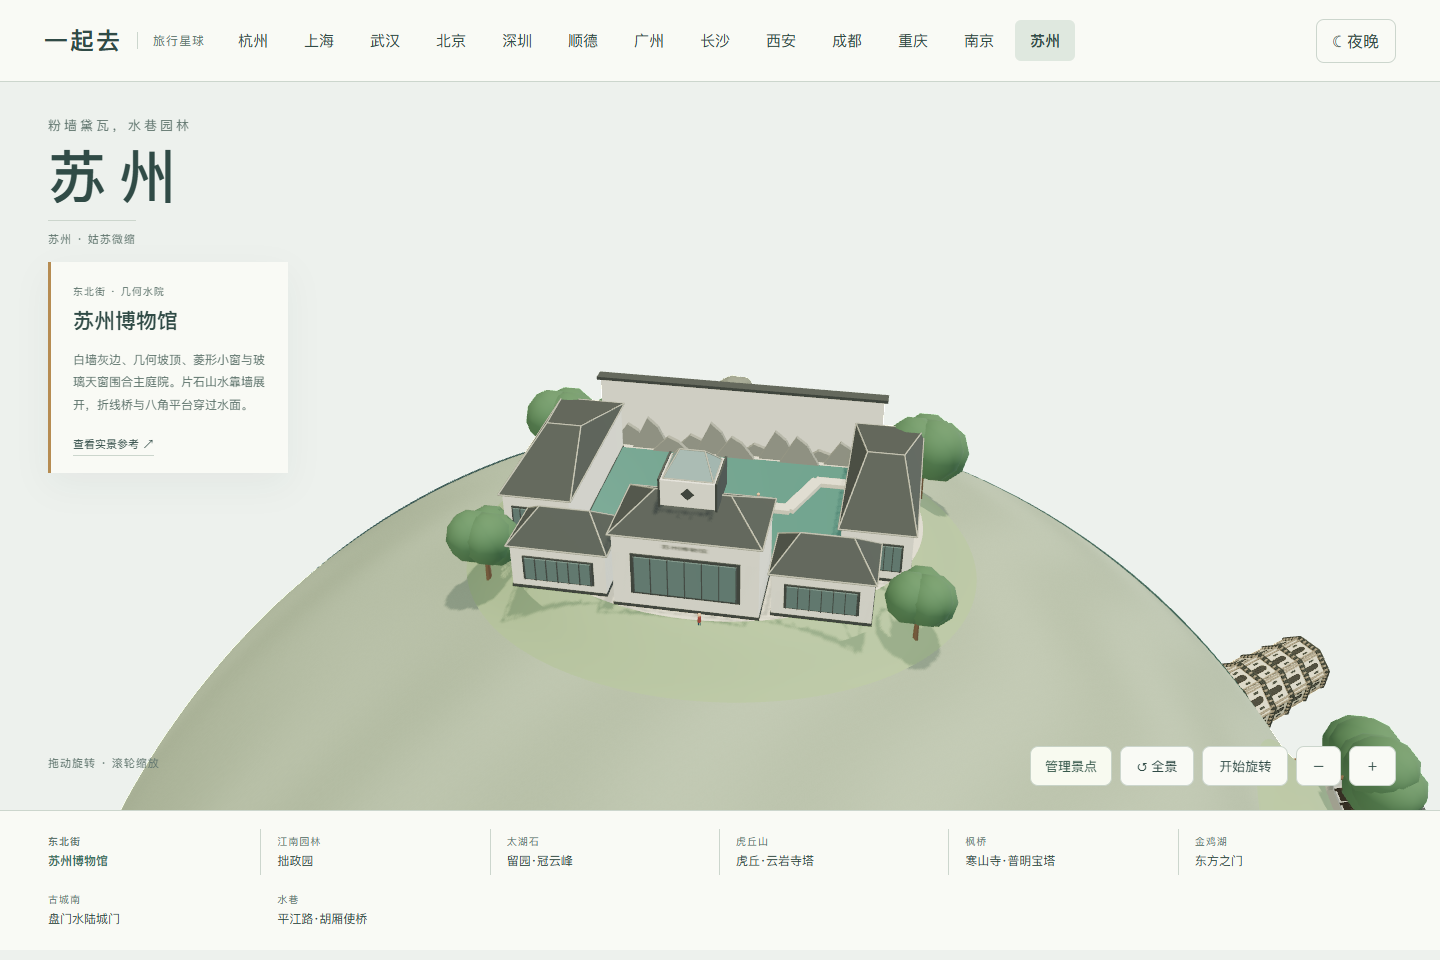
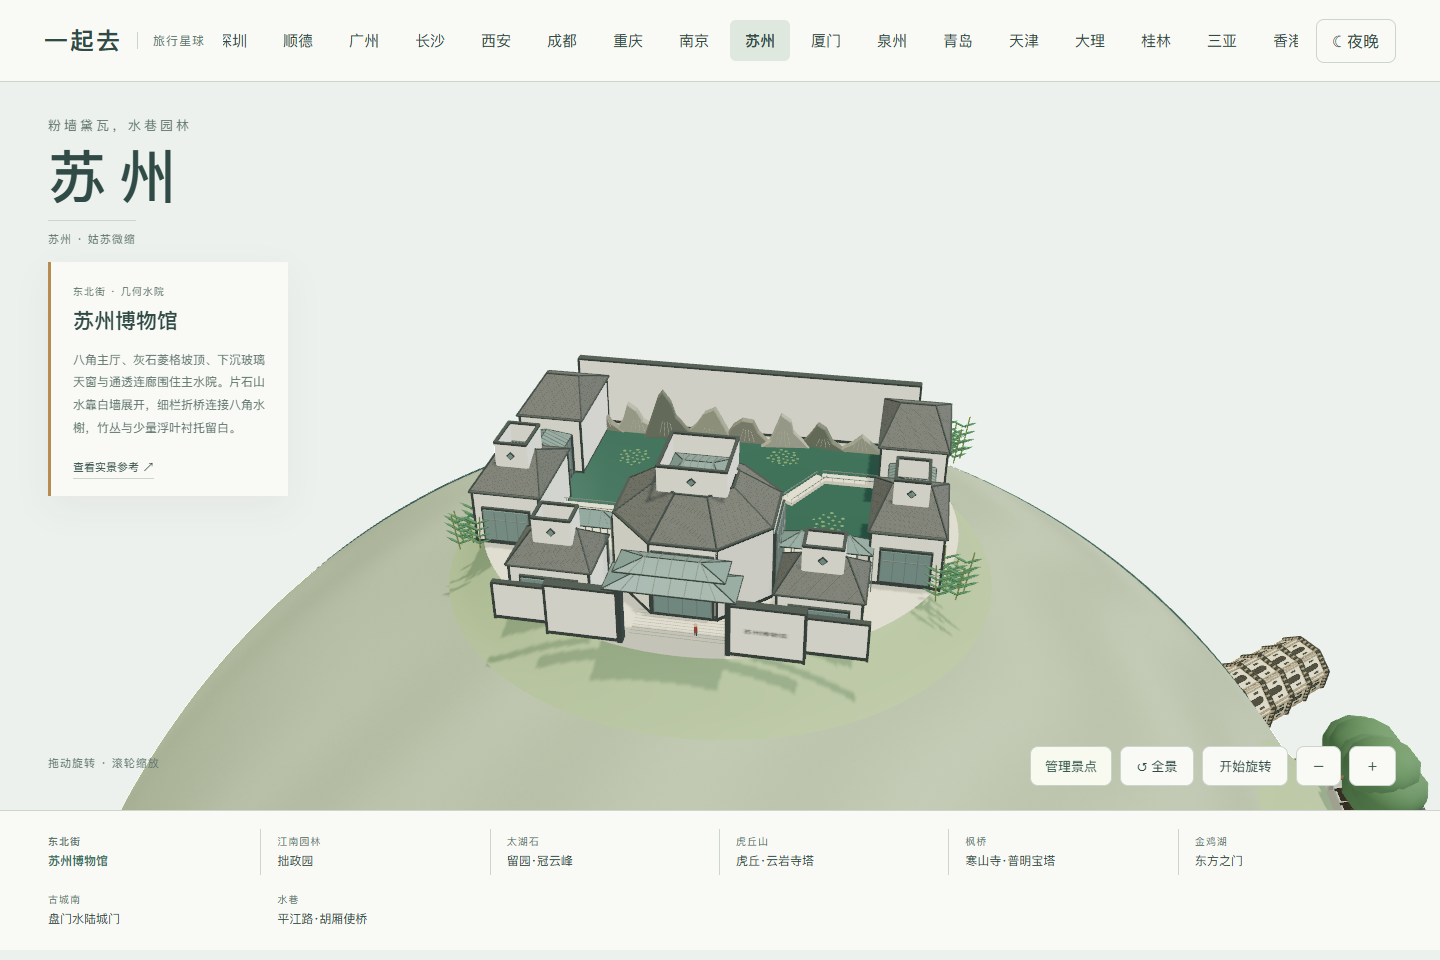
Refine Suzhou Museum courtyard, stone roofs and glazed connections

diff --git a/web/suzhou-museum.js b/web/suzhou-museum.js
@@ -1,0 +1,65 @@
+import * as THREE from 'three';
+import {palette,site,disc,bamboo,sign,finish,lit} from './suzhou-kit.js';
+
+function face(k,g,points,mat){const geo=new THREE.BufferGeometry();const pos=[];for(let i=1;i<points.length-1;i++)pos.push(...points[0],...points[i],...points[i+1]);geo.setAttribute('position',new THREE.Float32BufferAttribute(pos,3));geo.computeVertexNormals();mat.side=THREE.DoubleSide;return k.mesh(g,geo,mat);}
+function stoneRoof(k){const m=k.mat('#5e6260',.88,.03);m.onBeforeCompile=s=>{s.vertexShader='varying vec3 museumRoof;\n'+s.vertexShader.replace('#include <begin_vertex>','#include <begin_vertex>\nmuseumRoof=position;');s.fragmentShader='varying vec3 museumRoof;\n'+s.fragmentShader.replace('#include <color_fragment>',`#include <color_fragment>
+ vec2 diamond=vec2(museumRoof.x+museumRoof.z,museumRoof.x-museumRoof.z)*95.0;
+ vec2 gap=fract(diamond);float joint=step(.055,gap.x)*step(.055,gap.y);
+ float grain=fract(sin(dot(floor(diamond),vec2(12.98,78.23)))*43758.5);
+ diffuseColor.rgb*=mix(.78,.96+grain*.05,joint);`);};m.customProgramCacheKey=()=> 'suzhou-slate-diamond-v1';return m;}
+function strip(k,g,a,b,w,h,mat){const av=new THREE.Vector3(...a),bv=new THREE.Vector3(...b),d=bv.clone().sub(av),o=k.box(g,w,h,d.length(),mat,...av.add(bv).multiplyScalar(.5).toArray());o.quaternion.setFromUnitVectors(new THREE.Vector3(0,0,1),d.normalize());return o;}
+function hipped(k,g,p,x,z,w,d,y,h,glazed=false){const ridge=w*.25,pts=[[-w/2,0,-d/2],[w/2,0,-d/2],[w/2,0,d/2],[-w/2,0,d/2],[-ridge,h,0],[ridge,h,0]].map(v=>[v[0]+x,v[1]+y,v[2]+z]);
+ for(const ids of [[0,4,5,1],[1,5,2],[2,5,4,3],[3,4,0]])face(k,g,ids.map(i=>pts[i]),glazed?p.glass:p.roof);
+ for(const [a,b]of [[0,1],[1,2],[2,3],[3,0],[4,5],[0,4],[1,5],[2,5],[3,4]])strip(k,g,pts[a],pts[b],glazed?.002:.006,.003,p.edge);
+ if(glazed)for(const side of [-1,1])for(let i=1;i<8;i++){const xx=x+(i/8-.5)*w*.95;strip(k,g,[xx,y+.001,z+side*d/2],[THREE.MathUtils.clamp(xx,x-ridge,x+ridge),y+h+.001,z],.0018,.002,p.frame);}
+}
+function aperture(k,g,p,{x=0,z=0,y=.035,w=.12,h=.10,rotation=0}={}){const group=new THREE.Group();group.position.set(x,y,z);group.rotation.y=rotation;g.add(group);k.box(group,w+.012,h+.012,.007,p.edge,0,h/2,0);k.box(group,w,h,.008,p.glass,0,h/2,.001);for(let i=0;i<=4;i++)k.box(group,.0018,h,.009,p.frame,(i/4-.5)*w,h/2,.003);k.box(group,w,.002,.009,p.frame,0,h*.70,.003);}
+function diamond(k,g,p,x,y,z,size=.018,rotation=0){const group=new THREE.Group();group.position.set(x,y,z);group.rotation.y=rotation;g.add(group);const trim=k.box(group,size,size,.006,p.edge);trim.rotation.z=Math.PI/4;const glass=k.box(group,size*.68,size*.68,.007,p.glass,0,0,.001);glass.rotation.z=Math.PI/4;}
+function wall(k,g,p,w,h,d,x,y,z){k.box(g,w,h,d,p.wall,x,y+h/2,z);k.box(g,w+.002,.009,d+.002,p.edge,x,y+.005,z);k.box(g,w+.004,.006,d+.004,p.edge,x,y+h,z);for(const sx of [-1,1])for(const sz of [-1,1])k.box(g,.006,h,.006,p.edge,x+sx*w/2,y+h/2,z+sz*d/2);}
+function lantern(k,g,p,x,z,w,d,y,h=.075){
+ const t=.006;k.box(g,w,h,t,p.wall,x,y+h/2,z-d/2);k.box(g,w,h,t,p.wall,x,y+h/2,z+d/2);for(const side of [-1,1])k.box(g,t,h,d,p.wall,x+side*w/2,y+h/2,z);
+ for(const side of [-1,1]){k.box(g,w+.004,.006,.008,p.edge,x,y+h,z+side*d/2);k.box(g,.008,.006,d+.004,p.edge,x+side*w/2,y+h,z);diamond(k,g,p,x,y+h*.51,z+side*(d/2+.004),.016,side===1?0:Math.PI);}
+ hipped(k,g,p,x,z,w*.90,d*.90,y+.014,.025,true);
+}
+function pavilion(k,g,p,{x,z,w,d,h=.16,lanternTop=false}){
+ wall(k,g,p,w,h,d,x,.027,z);hipped(k,g,p,x,z,w+.012,d+.012,.027+h,.065);
+ for(const side of [-1,1])aperture(k,g,p,{x,z:z+side*(d/2+.005),y:.046,w:w*.67,h:h*.57,rotation:side<0?Math.PI:0});
+ if(lanternTop)lantern(k,g,p,x,z,w*.46,d*.44,.027+h+.040,.065);
+}
+function octagon(k,g,p,x,z,r,y,h){const vertices=Array.from({length:8},(_,i)=>{const a=Math.PI/8+i*Math.PI/4;return [x+Math.sin(a)*r,z+Math.cos(a)*r];});
+ for(let i=0;i<8;i++){const [ax,az]=vertices[i],[bx,bz]=vertices[(i+1)%8],mid=[(ax+bx)/2,(az+bz)/2],len=Math.hypot(bx-ax,bz-az),angle=Math.atan2(bx-ax,bz-az);const panel=k.box(g,.006,i%2?.026:h,len,p.wall,mid[0],i%2?y+h-.013:y+h/2,mid[1]);panel.rotation.y=angle;k.box(g,.006,h,.006,p.edge,ax,y+h/2,az);strip(k,g,[ax,y+h,az],[bx,y+h,bz],.007,.005,p.edge);strip(k,g,[ax,y+.006,az],[bx,y+.006,bz],.008,.010,p.edge);
+  if(i%2===1)aperture(k,g,p,{x:mid[0]+(mid[0]-x)*.025,z:mid[1]+(mid[1]-z)*.025,y:y+.014,w:len*.86,h:h*.82,rotation:Math.atan2(mid[0]-x,mid[1]-z)});
+ }
+ const outer=vertices.map(a=>[a[0],y+h,a[1]]),inner=vertices.map(a=>[x+(a[0]-x)*.48,y+h+.075,z+(a[1]-z)*.48]);
+ for(let i=0;i<8;i++){const j=(i+1)%8;face(k,g,[outer[i],inner[i],inner[j],outer[j]],p.roof);strip(k,g,outer[i],inner[i],.005,.003,p.edge);strip(k,g,inner[i],inner[j],.005,.003,p.edge);}
+ lantern(k,g,p,x,z,r*.78,r*.78,y+h+.072,.065);
+}
+function glazedLink(k,g,p,x,z,w,d,y=.145){hipped(k,g,p,x,z,w,d,y,.029,true);for(const side of [-1,1])for(let i=0;i<=6;i++)k.box(g,.003,y-.027,.003,p.frame,x+(i/6-.5)*w,(y+.027)/2,z+side*d/2);}
+function bridge(k,g,p,points,w=.036){for(let i=1;i<points.length;i++){const a=points[i-1],b=points[i];strip(k,g,[a[0],.043,a[1]],[b[0],.043,b[1]],w,.010,p.pale);const dx=b[0]-a[0],dz=b[1]-a[1],len=Math.hypot(dx,dz),nx=dz/len,nz=-dx/len;for(const side of [-1,1]){const off=side*w*.47;strip(k,g,[a[0]+nx*off,.058,a[1]+nz*off],[b[0]+nx*off,.058,b[1]+nz*off],.0018,.002,p.frame);const n=Math.max(2,Math.ceil(len/.035));for(let j=0;j<=n;j++)k.box(g,.0014,.014,.0014,p.frame,a[0]+dx*j/n+nx*off,.051,a[1]+dz*j/n+nz*off);}}
+}
+function mountain(k,g,p){
+ const shapes=[[-.41,.028,[[-.06,0],[-.049,.023],[-.02,.046],[.005,.040],[.019,.021],[.058,0]]],[-.31,.031,[[-.065,0],[-.041,.041],[-.028,.088],[-.005,.071],[.013,.039],[.056,.015],[.063,0]]],[-.22,.045,[[-.065,0],[-.052,.039],[-.023,.130],[-.012,.145],[.009,.113],[.022,.069],[.070,.008],[.070,0]]],[-.10,.027,[[-.070,0],[-.034,.039],[-.010,.078],[.019,.095],[.038,.063],[.074,0]]],[.015,.032,[[-.070,0],[-.040,.049],[-.015,.069],[.014,.066],[.029,.035],[.064,0]]],[.12,.040,[[-.060,0],[-.036,.019],[-.007,.100],[.017,.082],[.025,.048],[.070,0]]],[.235,.026,[[-.064,0],[-.033,.043],[-.017,.071],[.004,.060],[.025,.021],[.066,0]]],[.34,.032,[[-.060,0],[-.018,.027],[.004,.049],[.029,.028],[.063,0]]]];
+ const colors=['#797c72','#94978b','#696f65','#8b8f82'];for(let i=0;i<shapes.length;i++){const [x,zShift,points]=shapes[i],shape=new THREE.Shape();points.forEach(([a,b],n)=>n?shape.lineTo(a,b):shape.moveTo(a,b));shape.closePath();const mat=k.mat(colors[i%colors.length],.98);mat.userData.night={color:new THREE.Color('#c9c7b8'),intensity:.035};const mesh=k.mesh(g,new THREE.ExtrudeGeometry(shape,{depth:.016,bevelEnabled:true,bevelThickness:.003,bevelSize:.003,bevelSegments:1}),mat,x,.034,-.403+zShift);mesh.rotation.y=(i%3-1)*.13;for(let j=0;j<4;j++){const a=(j-1.5)*.014;k.beam(g,[x+a,.041,-.382+zShift],[x+a*.5,.067+.011*(i%3),-.380+zShift],.0006,p.rockVein);}}
+}
+export function museum(k){
+ const g=new THREE.Group(),p=palette(k),height=site(k,g,.72,.70);p.wall.color.set('#e2e2d9');p.edge=k.mat('#404a49',.85,.04);p.frame=k.mat('#697675',.68,.08);p.roof=stoneRoof(k);p.glass=lit(k,'#758d8b',.23);p.glass.roughness=.31;p.glass.metalness=.16;p.rockVein=k.mat('#a7aaa0',.97);p.water.color.set('#3e6659');p.water.roughness=.25;p.water.metalness=.24;p.water.userData.water=true;
+ for(const m of [p.wall,p.edge,p.roof])m.userData.museumOpaque=true;disc(k,g,.62,.59,.021,p.pale);
+ k.box(g,.86,.008,.48,p.water,0,.027,-.147);for(const x of [-.435,.435])k.box(g,.011,.023,.50,p.edge,x,.030,-.147);
+ wall(k,g,p,.99,.203,.020,0,.028,-.421);mountain(k,g,p);
+ bridge(k,g,p,[[-.43,.08],[-.25,.08],[-.17,-.044],[.17,-.044],[.25,-.18],[.43,-.18]]);
+ bridge(k,g,p,[[-.17,-.044],[-.17,.045]]);k.cyl(g,.065,.065,.012,p.pale,-.17,.043,.073,8);
+ // Small groups of lily pads retain the wide open reflecting pool.
+ const lily=k.mat('#67845d',.95);for(const [cx,cz,n]of [[-.29,-.22,23],[.13,-.29,26],[.29,.015,19]])for(let i=0;i<n;i++){const a=i*2.399,r=.046*Math.sqrt((i+.5)/n),o=k.mesh(g,new THREE.CircleGeometry(.0037+(i%3)*.0007,7),lily,cx+Math.sin(a)*r,.032,cz+Math.cos(a)*r);o.rotation.x=-Math.PI/2;}
+ // Two galleries and their glazed links are parts of the museum, not filler houses.
+ for(const side of [-1,1]){pavilion(k,g,p,{x:side*.49,z:-.245,w:.17,d:.27,h:.17});pavilion(k,g,p,{x:side*.49,z:.135,w:.17,d:.24,h:.15,lanternTop:true});const link=new THREE.Group();link.position.set(side*.49,0,-.045);link.rotation.y=Math.PI/2;g.add(link);glazedLink(k,link,p,0,0,.13,.12,.15);}
+ octagon(k,g,p,0,.275,.202,.028,.196);
+ for(const side of [-1,1]){pavilion(k,g,p,{x:side*.31,z:.405,w:.19,d:.15,h:.112,lanternTop:true});glazedLink(k,g,p,side*.30,.255,.23,.065,.13);wall(k,g,p,.23,.10,.010,side*.31,.027,.535);}
+ // Open entrance gate and glazed canopy preserve the view toward the central hall.
+ for(const side of [-1,1])wall(k,g,p,.17,.135,.018,side*.205,.027,.564);
+ for(const x of [-.122,.122])k.box(g,.013,.166,.025,p.edge,x,.110,.564);k.box(g,.256,.013,.026,p.edge,0,.192,.564);hipped(k,g,p,0,.564,.292,.10,.201,.026,true);hipped(k,g,p,0,.564,.244,.082,.243,.018,true);
+ sign(k,g,'苏州博物馆',.105,.022,.205,.10,.576,{background:'#e2e2d9',color:'#303d3b'});
+ const court=new THREE.Group();g.add(court);court.position.z=.493;k.box(court,.22,.003,.11,p.pale,0,.025,0);for(let i=-4;i<=4;i++)k.box(court,.22,.001,.0008,p.stone,0,.027,i*.011);
+ for(const side of [-1,1]){bamboo(k,g,side*.58,-.39,.16);bamboo(k,g,side*.59,.25,.14);}
+ finish(k,g,{lamps:[[-.37,.028,.47],[.37,.028,.47]],visitors:[[-.19,.050,.075],[.03,.050,-.044],[.04,.027,.52]]});
+ for(const x of [-.32,.32]){const light=new THREE.SpotLight('#e8e4d1',0,1.0,.7,.8,2);light.position.set(x,.14,-.04);light.target.position.set(x,.14,-.40);light.userData.nightIntensity=.075;g.add(light,light.target);}return g;
+}

diff --git a/web/suzhou-modern.js b/web/suzhou-modern.js
@@ -1,32 +1,7 @@
 import * as THREE from 'three';
 import {palette,site,disc,grove,path,sign,finish,lit} from './suzhou-kit.js';
 
-function straightRoof(k,g,p,x,y,z,w,d,h){
- const geo=new THREE.BufferGeometry(),v=[[-w/2,0,-d/2],[w/2,0,-d/2],[w/2,0,d/2],[-w/2,0,d/2],[-w*.25,h,0],[w*.25,h,0]],indices=[0,4,5,0,5,1,1,5,2,2,5,4,2,4,3,3,4,0];geo.setAttribute('position',new THREE.Float32BufferAttribute(v.flat(),3));geo.setIndex(indices);const flat=geo.toNonIndexed();geo.dispose();flat.computeVertexNormals();k.mesh(g,flat,p.tile,x,y,z);
- for(const [a,b]of [[0,1],[1,2],[2,3],[3,0],[4,5],[0,4],[1,5],[2,5],[3,4]])k.beam(g,v[a].map((q,i)=>q+[x,y,z][i]),v[b].map((q,i)=>q+[x,y,z][i]),.002,p.stone);
-}
-function gallery(k,g,p,{x,z,w,d,h=.14}){
- k.box(g,w,h,d,p.wall,x,.026+h/2,z);k.box(g,w+.004,.008,d+.004,p.tile,x,.030,z);straightRoof(k,g,p,x,.026+h,z,w+.015,d+.018,.065);
- const pane=lit(k,'#657b78',.36);
- for(const s of [-1,1]){k.box(g,w*.75,h*.55,.005,p.tile,x,.032+h*.45,z+s*(d/2+.001));k.box(g,w*.69,h*.48,.005,pane,x,.032+h*.45,z+s*(d/2+.004));for(let i=0;i<7;i++)k.box(g,.002,h*.50,.007,p.tile,x+(i/6-.5)*w*.70,.032+h*.45,z+s*(d/2+.007));}
-}
-export function museum(k){
- const g=new THREE.Group(),p=palette(k),height=site(k,g,.68,.61);disc(k,g,.53,.46,.022,p.pale);
- k.box(g,.68,.008,.46,p.water,0,.027,-.04);
- k.box(g,.80,.20,.025,p.wall,0,.125,-.32);k.box(g,.82,.009,.035,p.tile,0,.229,-.32);
- const rock=k.mat('#8e9188',.98);for(let i=0;i<11;i++){const shape=new THREE.Shape(),x=(i-5)*.061,h=.035+.065*(.5+.5*Math.sin(i*1.9));shape.moveTo(-.06,0);shape.lineTo(-.015,h);shape.lineTo(.015,h*.72);shape.lineTo(.05,0);shape.closePath();k.mesh(g,new THREE.ExtrudeGeometry(shape,{depth:.014,bevelEnabled:false}),rock,x,.035,-.292+(i%3)*.01);}
- path(k,g,p,[[-.38,.13],[-.18,.13],[-.12,-.01],[.18,-.01],[.24,-.16],[.38,-.16]],.033,.043);
- k.cyl(g,.055,.055,.012,p.pale,-.14,.043,.18,8);
- gallery(k,g,p,{x:-.42,z:-.02,w:.17,d:.51,h:.14});gallery(k,g,p,{x:.42,z:-.02,w:.17,d:.51,h:.14});
- gallery(k,g,p,{x:0,z:.34,w:.34,d:.20,h:.20});gallery(k,g,p,{x:-.31,z:.34,w:.23,d:.15,h:.12});gallery(k,g,p,{x:.31,z:.34,w:.23,d:.15,h:.12});
- // Geometric lantern above the central hall, with a recessed pyramidal skylight.
- k.box(g,.13,.065,.12,p.wall,0,.321,.34);const glass=lit(k,'#7e9694',.30);straightRoof(k,g,{...p,tile:glass},0,.354,.34,.115,.105,.048);
- for(const x of [-.065,.065])k.box(g,.005,.073,.125,p.tile,x,.321,.34);
- for(const side of [-1,1]){const o=k.box(g,.022,.022,.002,p.tile,0,.323,.34+side*.061);o.rotation.z=Math.PI/4;}
- sign(k,g,'苏州博物馆',.116,.020,0,.204,.442,{background:'#dfded2',color:'#414b46'});
- grove(k,g,height,[[-.52,-.32,.18],[.52,-.31,.19],[-.55,.27,.15],[.53,.31,.14]]);
- return finish(k,g,{lamps:[[-.25,.03,.22],[.25,.03,.22]],visitors:[[-.18,.051,.13],[.10,.051,-.01],[.04,.025,.48]]});
-}
+export {museum} from './suzhou-museum.js';
 
 export function orient(k){
  const g=new THREE.Group(),p=palette(k);site(k,g,.58,.49);disc(k,g,.39,.32,.021,p.pale);

diff --git a/web/suzhou-landmarks.js b/web/suzhou-landmarks.js
@@ -2,7 +2,7 @@ import {museum,orient} from './suzhou-modern.js';
 import {humble,lingering} from './suzhou-gardens.js';
 import {tiger,hanshan,panmen,pingjiang} from './suzhou-heritage.js';
 export const LANDMARKS=[
- {id:'museum',name:'苏州博物馆',area:'东北街 · 几何水院',x:-1.08,z:.94,height:.48,distance:2.95,view:[.33,1.05,1.8],description:'白墙灰边、几何坡顶、菱形小窗与玻璃天窗围合主庭院。片石山水靠墙展开，折线桥与八角平台穿过水面。',source:'https://pei-architects.com/projects/suzhou-museum/'},
+ {id:'museum',name:'苏州博物馆',area:'东北街 · 几何水院',x:-1.08,z:.94,height:.48,distance:2.95,view:[.33,1.05,1.8],description:'八角主厅、灰石菱格坡顶、下沉玻璃天窗与通透连廊围住主水院。片石山水靠白墙展开，细栏折桥连接八角平台，竹丛与少量浮叶衬托留白。',source:'https://pei-architects.com/projects/suzhou-museum/'},
  {id:'humble',name:'拙政园',area:'江南园林 · 荷风四面',x:1.08,z:.94,height:.44,distance:2.85,view:[.35,.95,1.8],description:'以荷塘、六角荷风四面亭和远香堂为核心，补入曲桥、廊屋、竹丛与临水树冠。保留园林的水面和留白，不把庭园铺成密集房屋。',source:'https://lhsr.sh.gov.cn/jnylwh/20230731/97e84acfec034f0a930b23fdadbe390f.html'},
  {id:'lingering',name:'留园·冠云峰',area:'太湖石 · 一峰三叠',x:-1.08,z:-.94,height:.50,distance:2.75,view:[.25,.80,1.8],description:'冠云峰、两侧配石、浣云沼、冠云楼与围廊构成层次。太湖石保留穿透孔洞，月洞门和木格窗围住安静的庭院。',source:'https://ylj.suzhou.gov.cn/szsylj/sjyc/201905/b7c0f2058c75498c9ecbacf234e25b08.shtml'},
  {id:'tiger',name:'虎丘·云岩寺塔',area:'虎丘山 · 七层砖塔',x:1.08,z:-.94,height:1.15,distance:2.9,view:[.4,.74,1.8],description:'七层八角砖塔略向一侧倾斜。灰褐砖、浅色壁面、券窗、密叠砖檐与收束塔顶，区别于宽大木檐的寺院宝塔。',source:'https://www.trip.com/travel-guide/attraction/suzhou/tiger-hill-scenic-area-76159/'},

diff --git a/tools/destination-check.py b/tools/destination-check.py
@@ -24,6 +24,7 @@ configs['sanya']={'count': 8, 'focus': 'phoenix', 'first': 'nanshan', 'night': [
 configs['hongkong']={'count': 10, 'focus': 'boc', 'first': 'boc', 'night': ['ifc', 'hsbc', 'cec', 'peak', 'icc', 'clock', 'mplus', 'chilin', 'buddha', 'boc'], 'routes': ['', 'shanghai-trip.html', 'wuhan-trip.html', 'shanghai.html', 'wuhan.html', 'beijing.html', 'shenzhen.html', 'shunde.html', 'guangzhou.html', 'changsha.html', 'xian.html', 'chengdu.html', 'chongqing.html', 'nanjing.html', 'suzhou.html', 'xiamen.html', 'quanzhou.html', 'qingdao.html', 'tianjin.html', 'dali.html', 'guilin.html', 'sanya.html']}
 configs['macau']={'count': 10, 'focus': 'paul', 'first': 'paul', 'night': ['paul', 'senado', 'dominic', 'ama', 'guia', 'tower', 'lisboa', 'taipa', 'science', 'morpheus'], 'routes': ['beijing.html', 'changsha.html', 'chengdu.html', 'chongqing.html', 'dali.html', 'guangzhou.html', 'guilin.html', 'hongkong.html', '', 'nanjing.html', 'qingdao.html', 'quanzhou.html', 'sanya.html', 'shanghai-trip.html', 'shanghai.html', 'shenzhen.html', 'shunde.html', 'suzhou.html', 'tianjin.html', 'wuhan-trip.html', 'wuhan.html', 'xiamen.html', 'xian.html']}
 assert city in configs, 'Unknown city viewer'
+configs['suzhou']['motion']='orient'
 config=configs[city];count=config['count'];focus=config['focus'];first=config['first']
 out=root/'test-results'/('destination-'+city);out.mkdir(parents=True,exist_ok=True)
 report={'startedAt':datetime.datetime.now().astimezone().isoformat(),'city':city,'errors':[],'writes':[],'checks':[],'inspected':False}
@@ -51,6 +52,7 @@ try:
         page.locator('#night').click();expect(canvas).to_have_attribute('data-night','true');page.locator('#overview').click();shot('desktop-night')
         for id in config['night']:
             page.locator('[data-landmark='+id+']').click();shot('night-'+id)
+        page.locator('[data-landmark='+config.get('motion',config['night'][-1])+']').click()
         page.emulate_media(reduced_motion='no-preference');page.wait_for_timeout(800);before=canvas.screenshot();page.wait_for_timeout(1800);assert before!=canvas.screenshot();page.emulate_media(reduced_motion='reduce')
         page.set_viewport_size({'width':390,'height':844});page.locator('[data-landmark='+focus+']').click();shot('390-'+focus+'-night')
         page.locator('#manage-landmarks').click();expect(page.locator('#landmark-manager')).to_be_visible();assert page.locator('#landmark-manager').evaluate('(e)=>e.getBoundingClientRect().bottom<=innerHeight+1')

diff --git a/README.md b/README.md
@@ -1,6 +1,6 @@
 # 一起去 · Travel Planet
 
-用可旋转的 3D 城市星球发现景点，再和朋友一起决定怎么旅行。当前版本 **0.55.5**，支持桌面和手机网页。
+用可旋转的 3D 城市星球发现景点，再和朋友一起决定怎么旅行。当前版本 **0.55.6**，支持桌面和手机网页。
 
 **[上海旅行 · 在线体验](https://43.139.249.151/travel/shanghai-trip.html)** · **[杭州旅行](https://43.139.249.151/travel/)** · **[武汉旅行](https://43.139.249.151/travel/wuhan-trip.html)** · **[武汉纯地图](https://43.139.249.151/travel/wuhan.html)** · **[上海纯地图](https://43.139.249.151/travel/shanghai.html)** · **[北京地图](https://43.139.249.151/travel/beijing.html)** · **[深圳地图](https://43.139.249.151/travel/shenzhen.html)** · **[顺德地图](https://43.139.249.151/travel/shunde.html)** · **[广州地图](https://43.139.249.151/travel/guangzhou.html)** · **[长沙地图](https://43.139.249.151/travel/changsha.html)** · **[西安地图](https://43.139.249.151/travel/xian.html)** · **[成都地图](https://43.139.249.151/travel/chengdu.html)** · **[重庆地图](https://43.139.249.151/travel/chongqing.html)** · **[南京地图](https://43.139.249.151/travel/nanjing.html)** · **[苏州地图](https://43.139.249.151/travel/suzhou.html)** · **[厦门地图](https://43.139.249.151/travel/xiamen.html)** · **[泉州地图](https://43.139.249.151/travel/quanzhou.html)** · **[青岛地图](https://43.139.249.151/travel/qingdao.html)** · **[天津地图](https://43.139.249.151/travel/tianjin.html)** · **[大理地图](https://43.139.249.151/travel/dali.html)** · **[桂林地图](https://43.139.249.151/travel/guilin.html)** · **[三亚地图](https://43.139.249.151/travel/sanya.html)** · **[香港地图](https://43.139.249.151/travel/hongkong.html)** · **[澳门地图](https://43.139.249.151/travel/macau.html)**
 
@@ -39,7 +39,7 @@
 
 南京新增 **8 组具名地标**：中山陵、夫子庙秦淮河、中华门瓮城、南京博物院、鸡鸣寺药师佛塔、大报恩寺遗址新塔、紫峰大厦和南京眼。中山陵补齐蓝瓦屋面、灰石斗拱、卷草石雕、青铜花窗、真实门洞与承托山坡；保留连续石阶、贯通藏兵洞、古建木格门窗、玻璃保护塔与倾斜双桥环；双半球布局，支持日夜、近看、手机触控和整组管理。南京当前未接入多人旅行。[查看实拍参考](docs/NANJING_REFERENCES.md)。
 
-苏州新增 **8 组具名地标**：苏州博物馆、拙政园、留园冠云峰、虎丘云岩寺塔、寒山寺普明宝塔、东方之门、盘门水陆城门和平江路胡厢使桥。保留几何水院、六角荷亭、穿孔太湖石、砖塔与木塔的不同形制，以及水陆门洞和银灰玻璃尖拱；支持两半球、日夜、自由旋转、手机触控和整组管理。苏州当前未接入多人旅行。[查看实拍参考](docs/SUZHOU_REFERENCES.md)。
+苏州博物馆已补齐八角主厅、菱格石屋面、下沉玻璃天窗、通透连廊、片石水院与门庭。苏州新增 **8 组具名地标**：苏州博物馆、拙政园、留园冠云峰、虎丘云岩寺塔、寒山寺普明宝塔、东方之门、盘门水陆城门和平江路胡厢使桥。保留几何水院、六角荷亭、穿孔太湖石、砖塔与木塔的不同形制，以及水陆门洞和银灰玻璃尖拱；支持两半球、日夜、自由旋转、手机触控和整组管理。苏州当前未接入多人旅行。[查看实拍参考](docs/SUZHOU_REFERENCES.md)。
 
 厦门新增 **8 组具名地标**：八卦楼、日光岩、菽庄花园四十四桥、南普陀寺、建南大会堂、南薰楼与龙舟池、世茂海峡双子塔、海沧大桥。保留红穹顶、闽南飞檐、石墙柱廊、临海曲桥、双帆斜顶和悬索结构；提供两半球、日夜、自由旋转、手机触控与整组管理。厦门当前未接入多人旅行。[查看实拍参考](docs/XIAMEN_REFERENCES.md)。
 

diff --git a/docs/SUZHOU_REFERENCES.md b/docs/SUZHOU_REFERENCES.md
@@ -14,3 +14,18 @@
 | 平江路胡厢使桥 | 石拱桥、相连小桥、水巷、白墙灰瓦和临水木格窗。少量街屋属于这段具名历史街景，不作无名填充建筑。 | [两桥关系说明](https://swzfw.suzhou.gov.cn/swzfw/pasz/202309/ae5591e44c534d26ae81e329c43a0396.shtml)、[水巷实拍](https://jp.trip.com/travel-guide/attraction/suzhou/pingjiang-road-87769/) |
 
 八组地标分布在两半球，提供日夜切换、自由旋转、逐景近看和整组添加或移除。苏州当前为景观地图，未接入多人旅行。
+
+
+## 0.55.6 苏州博物馆主庭院精修
+
+继续核看[设计事务所项目](https://pei-architects.com/projects/suzhou-museum/)、[设计方航拍](https://pei-architects.com/wp-content/uploads/suzhou_IMG_0812.jpg)与上表馆方入口、菱格屋面及玻璃连廊近照。主厅改为八角体量，灰石坡顶接到有真实凹口的玻璃天窗；侧翼展厅通过玻璃连廊衔接，入口采用通透门庭与双层玻璃雨棚。白墙深灰收边和石材菱格区分墙面、屋面与玻璃。
+
+主水院保留宽阔水面，片石采用不同轮廓、前后错位与灰色层次；细栏折桥连接八角平台，浮叶集中成小片，竹丛留在外围。夜间玻璃内侧用低亮暖光，白墙与灰顶保留日景原色，片石墙使用静态白光。灯光是项目的展示设计，不声称重现现实开放时段或灯光节目。
+
+这是主水院及相连门庭的压缩表达，不是全馆平面或工程模型。原八组景点位置、其他城市与三城多人旅行不变。
+
+![苏博主庭院](images/suzhou-museum.png)
+
+![苏博侧向连廊](images/suzhou-museum-oblique.png)
+
+![苏博夜间展示](images/suzhou-museum-night.png)

diff --git a/docs/TESTING.md b/docs/TESTING.md
@@ -238,3 +238,10 @@ python tools/travel-flow-check.py
 325 项完整测试、330 项 JavaScript 语法和 4 项南京专项通过。新增射线检查验证三座门洞真实通透、中间拱门较高、石墩和后墙完整；保留球面落地、两半球净空、日夜保色、整组灯光与资源释放检查。
 
 2026-11-04 07:36 起对照实拍核看祭堂正侧背、日夜和窄屏，修正屋面拼接缝、后墙空隙、地形重叠和瓦垄亮度。完整浏览器验收八组日夜、模块保存恢复、触控键盘、320—1440、真实 WebGL 丢失恢复及原城市导航，异常与业务写入为 0。手机为浏览器模拟，不代替物理设备性能测试。
+
+
+## 0.55.6 苏州博物馆主庭院精修
+
+326 项完整测试、331 项 JavaScript 语法与 4 项苏州专项通过。新增射线检查验证入口门庭通透、侧墙保留、玻璃天窗真实下凹且周围石材屋面完整；保留两半球净空、球面落地、整组资源和灯光管理。
+
+2026-11-04 07:44—07:48 核看两轮草稿及正式模型日夜、正侧背、320，修正侧墙整面变暗的问题。完整浏览器第一次在静态平江路检查动态而失败，已明确选择带动态灯光的东方之门，重跑通过八组日夜、模块保存恢复、触控键盘、320—1440 与 WebGL 恢复，异常和业务写入为 0。手机为浏览器模拟，未替代物理设备性能验证。
